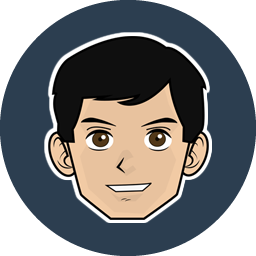
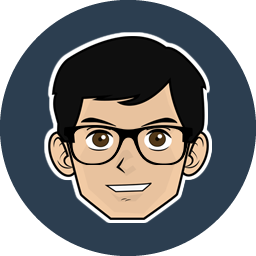
Updated profile image; messed with 'about me'; updated footer

Changed region(s): [[0.25, 0.4688, 0.75, 0.6562], [0.2812, 0.4688, 0.4375, 0.5312]]

diff --git a/index.html b/index.html
@@ -168,7 +168,7 @@
             </div>
             <div class="row">
                 <div class="col-lg-4 col-lg-offset-2">
-                    <p>Freelancer is a free bootstrap theme created by Start Bootstrap. The download includes the complete source files including HTML, CSS, and JavaScript as well as optional LESS stylesheets for easy customization.</p>
+                    <p>Hi! My name is Kyle Martinez, and I'm a second year Computer Science student at the University of Central Florida. </p>
                 </div>
                 <div class="col-lg-4">
                     <p>Whether you're a student looking to showcase your work, a professional looking to attract clients, or a graphic artist looking to share your projects, this template is the perfect starting point!</p>
@@ -242,35 +242,29 @@
         <div class="footer-above">
             <div class="container">
                 <div class="row">
-                    <div class="footer-col col-md-4">
+                    <!-- <div class="footer-col col-md-4">
                         <h3>Location</h3>
                         <p>3481 Melrose Place
-                            <br>Beverly Hills, CA 90210</p>
-                    </div>
-                    <div class="footer-col col-md-4">
-                        <h3>Around the Web</h3>
+                            <br>Oviedo, FL 32765</p>
+                    </div> -->
+                    <div class="footer-col col-md-4 col-md-offset-4">
+                        <h3>Find me on the webs</h3>
                         <ul class="list-inline">
                             <li>
-                                <a href="#" class="btn-social btn-outline"><i class="fa fa-fw fa-facebook"></i></a>
-                            </li>
-                            <li>
-                                <a href="#" class="btn-social btn-outline"><i class="fa fa-fw fa-google-plus"></i></a>
-                            </li>
-                            <li>
-                                <a href="#" class="btn-social btn-outline"><i class="fa fa-fw fa-twitter"></i></a>
+                                <a href="https://twitter.com/ky1emart" class="btn-social btn-outline" target="_blank"><i class="fa fa-fw fa-twitter"></i></a>
                             </li>
                             <li>
                                 <a href="https://www.linkedin.com/in/kylelouismartinez" class="btn-social btn-outline" target="_blank"><i class="fa fa-fw fa-linkedin"></i></a>
                             </li>
                             <li>
-                                <a href="#" class="btn-social btn-outline"><i class="fa fa-fw fa-dribbble"></i></a>
+                                <a href="https://github.com/kylemart/" class="btn-social btn-outline" target="_blank"><i class="fa fa-fw fa-github-alt"></i></a>
                             </li>
                         </ul>
                     </div>
-                    <div class="footer-col col-md-4">
+                    <!-- <div class="footer-col col-md-4">
                         <h3>About Freelancer</h3>
                         <p>Freelance is a free to use, open source Bootstrap theme created by <a href="http://startbootstrap.com">Start Bootstrap</a>.</p>
-                    </div>
+                    </div> -->
                 </div>
             </div>
         </div>
@@ -278,7 +272,7 @@
             <div class="container">
                 <div class="row">
                     <div class="col-lg-12">
-                        Made with
+                        Powered by Web Magic
                     </div>
                 </div>
             </div>
